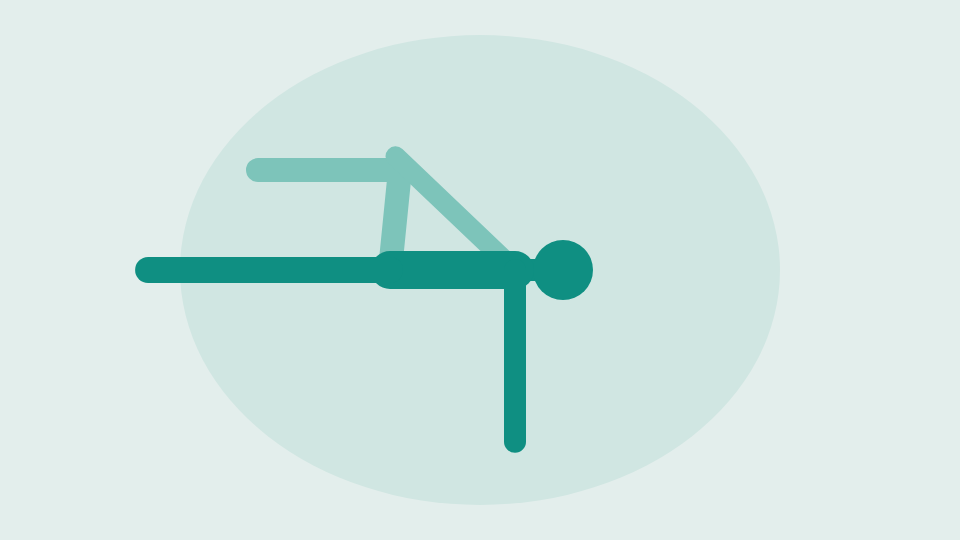
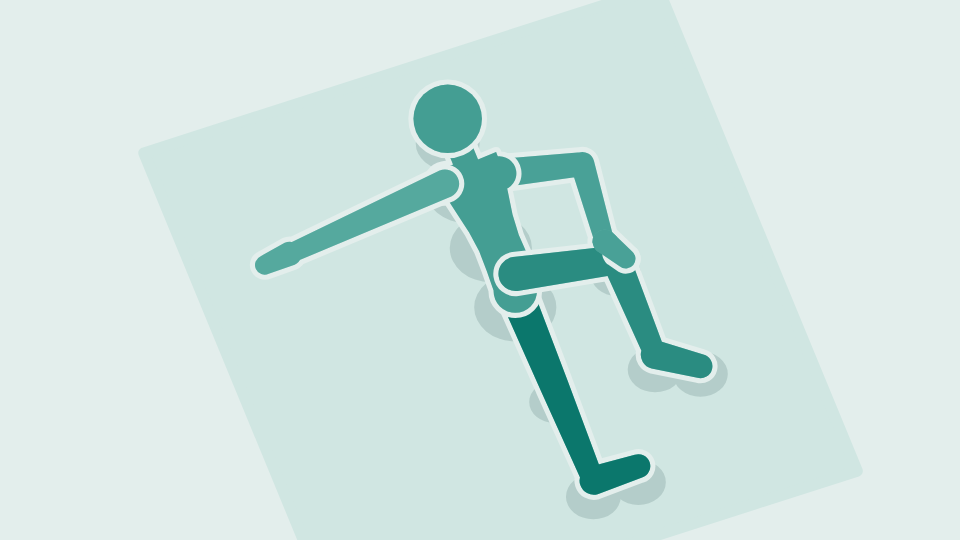
feat: add The Sagittarius exercise with 3D animation and update related components

Changed region(s): [[0.125, 0.1481, 0.7812, 0.9778]]

diff --git a/src/data/exercise-animations-3d.ts b/src/data/exercise-animations-3d.ts
@@ -6209,3 +6209,110 @@ export const SLEEPER_STRETCH_3D: Clip3D = {
     ...alongArc(1800, SLEEPER_STEPS, (t) => sleeperAt(1 - t)),
   ],
 };
+
+// --- The Sagittarius: lying on the left side with the top hip and knee at 90°, the bottom hand holding the knee down, the chest turns open and the top arm lies back on the floor behind ---
+
+/**
+ * The top hip and knee at 90°, the thigh turned in this far at the hip to bring the knee down
+ * toward the floor in front, and the toes pointed a little, as a relaxed foot lies. Further down,
+ * the foot, square to the shin, tipped its toes into the floor.
+ */
+const SAG_KNEE_DOWN = -20;
+const SAG_TOES = -25;
+/** How far the bottom hand's middle rests above the middle of the top knee: on top of it, holding it down. */
+const SAG_HAND_ON_KNEE = 17;
+/** How far from the wrist the middle of the hand is. */
+const SAG_HAND_MIDDLE = 13;
+/**
+ * How much the bottom hand tips down over the knee from the line of the arm: the palm over the top of
+ * the knee and the fingers curling down its far side.
+ */
+const SAG_HAND_TIP = 0.25;
+/** How high the fingertips of a hand lying on the floor are: half the fingers' thickness. */
+const SAG_FINGERTIPS_Y = 9;
+
+/**
+ * The chest this far turned open, the top arm swinging round with it from `closed`, resting on the
+ * floor in front of the chest, to `arm`, on the floor behind.
+ */
+const sagittariusBody = (open: number, arm = SAG_OPEN_ARM, closed = SAG_CLOSED_ARM): Pose3 => ({
+  pelvis: [0, BOOK_SPINE_Y, 0],
+  tilt: -90,
+  spine: { twist: BOOK_OPEN.twist * open },
+  neck: { twist: BOOK_OPEN.neck * open },
+  rightArm: { flex: 90, abduct: mix(closed, arm, open), shrug: BOOK_SHRUG },
+  leftArm: { shrug: BOOK_SHRUG },
+  rightLeg: { flex: 90, knee: 90, abduct: SAG_KNEE_DOWN, ankle: SAG_TOES },
+  leftLeg: {},
+});
+/** How far the top arm comes down across the chest, closed, for the fingertips to rest on the floor in front of it. */
+const SAG_CLOSED_ARM = (() => {
+  let [short, past] = [0, -90];
+  for (let i = 0; i < 40; i++) {
+    const arm = (short + past) / 2;
+    if (solvePose(sagittariusBody(0, BOOK_OPEN.arm, arm)).rightArm[3][1] > SAG_FINGERTIPS_Y) short = arm;
+    else past = arm;
+  }
+  return (short + past) / 2;
+})();
+/**
+ * How far out the top arm opens: as the chest turns open it swings round behind, and it goes as far
+ * as it takes for the hand to lie on the floor behind, relaxed, the back of it down, the fingertips touching.
+ */
+const SAG_OPEN_ARM = (() => {
+  let [short, past] = [BOOK_OPEN.arm, 180];
+  for (let i = 0; i < 40; i++) {
+    const arm = (short + past) / 2;
+    if (solvePose(sagittariusBody(1, arm, 0)).rightArm[3][1] > SAG_FINGERTIPS_Y) short = arm;
+    else past = arm;
+  }
+  return (short + past) / 2;
+})();
+/** The top knee, down on the floor in front, which stays there. */
+const SAG_KNEE = solvePose(sagittariusBody(0)).rightLeg[1];
+/** Where the middle of the bottom hand is, holding the knee: on top of it. */
+const SAG_ON_KNEE: Vec3 = [SAG_KNEE[0], SAG_KNEE[1] + SAG_HAND_ON_KNEE, SAG_KNEE[2]];
+
+/**
+ * The chest this far open, the bottom hand on top of the knee holding it down. The hand points on
+ * from the arm, from the bottom shoulder to the knee, tipped down over the knee, so the wrist stays
+ * near straight as the shoulder lifts with the chest turning.
+ */
+const sagittariusAt = (open: number): Pose3 => {
+  const body = sagittariusBody(open);
+  const along = unit3(sub3(SAG_ON_KNEE, solvePose(body).leftArm[0]));
+  const onKnee = unit3([along[0], along[1] - SAG_HAND_TIP, along[2]]);
+  return {
+    ...body,
+    pins: { leftHand: { at: along3(SAG_ON_KNEE, onKnee, -SAG_HAND_MIDDLE), toward: onKnee, pole: [1, 0.3, 0] } },
+  };
+};
+const SAG_CLOSED = sagittariusAt(0);
+const SAG_OPEN = sagittariusAt(1);
+const SAG_STEPS = 16;
+
+export const THE_SAGITTARIUS_3D: Clip3D = {
+  view: '3d',
+  // As in open book, from the feet end, a little behind the back and well above: the arm sweeps round
+  // over the body in a half circle across the screen as the chest turns up toward the camera, the top
+  // knee is in front, down on the floor, and the bottom leg reaches long down the screen.
+  camera: OPEN_BOOK_3D.camera,
+  highlight: ['torso', 'rightArm'],
+  // The bottom hand holds the top knee down, on top of it.
+  holds: [{ hand: 'leftHand', limb: 'rightLeg' }],
+  // As in open book: the top knee is nearer the camera than the top arm, well apart from it on
+  // screen, and by depth they swapped as the arm went overhead.
+  behind: [['rightArm', 'rightLeg']],
+  // The face turns up toward the camera as the chest opens, and a nose appearing partway through
+  // only distracts from the arm.
+  nose: false,
+  // Open.
+  stillFrame: 1 + SAG_STEPS,
+  keyframes: [
+    { ms: 0, pose: SAG_CLOSED },
+    { ms: 600, pose: SAG_CLOSED },
+    ...alongArc(2200, SAG_STEPS, sagittariusAt),
+    { ms: 3500, pose: SAG_OPEN },
+    ...alongArc(2200, SAG_STEPS, (t) => sagittariusAt(1 - t)),
+  ],
+};

diff --git a/src/lib/rig3d.test.ts b/src/lib/rig3d.test.ts
@@ -45,6 +45,7 @@ import {
   SHOULDER_PASS_THROUGHS_3D,
   SIDE_LYING_EXTERNAL_ROTATION_3D,
   SLEEPER_STRETCH_3D,
+  THE_SAGITTARIUS_3D,
   SIT_AND_REACH_3D,
   SQUAT_TO_STAND_3D,
   STRAIGHT_LEG_RAISE_3D,
@@ -1790,6 +1791,45 @@ describe('3D clips', () => {
       const nearest = Math.min(...[start.rightArm, start.leftArm].map((arm) => Math.hypot(x - hand(arm)[0], y - hand(arm)[1])));
       expect(nearest).toBeGreaterThan(10);
     }
+  });
+
+  it('holds the top knee down at 90° with the bottom hand while the chest turns open and the top arm lies back on the floor behind, and back, in the Sagittarius', () => {
+    const clip = THE_SAGITTARIUS_3D;
+    const skeletons = samples(clip).map(solvePose);
+    const start = skeletons[0];
+    for (const s of skeletons) {
+      // Lying on the side, the hips still and the bottom leg straight, in line with the torso.
+      expect(distance(s.spine[0], start.spine[0])).toBeCloseTo(0);
+      expect(distance(s.leftLeg[2], start.leftLeg[2])).toBeCloseTo(0);
+      expect(angleAt(s.leftLeg[0], s.leftLeg[1], s.leftLeg[2])).toBeGreaterThan(178);
+      expect(angleAt(s.spine[s.spine.length - 1], s.spine[0], s.leftLeg[2])).toBeGreaterThan(170);
+      // The top hip and knee at 90° the whole way, the knee down in front and staying put.
+      const [hip, knee, ankle] = s.rightLeg;
+      expect(distance(knee, start.rightLeg[1])).toBeCloseTo(0);
+      expect(angleAt(s.spine[s.spine.length - 1], s.spine[0], knee)).toBeCloseTo(90, -1);
+      expect(angleAt(hip, knee, ankle)).toBeCloseTo(90, 0);
+      expect(knee[1]).toBeLessThan(hip[1]);
+      // The bottom hand stays on top of the knee, holding it, never sinking into the leg, the wrist
+      // near straight, carrying on from the forearm.
+      const hand = s.leftArm;
+      const middle: Vec3 = [(hand[2][0] + hand[3][0]) / 2, (hand[2][1] + hand[3][1]) / 2, (hand[2][2] + hand[3][2]) / 2];
+      expect(distance(middle, knee)).toBeLessThan(20);
+      expect(middle[1]).toBeGreaterThan(knee[1]);
+      for (const point of [hand[2], hand[3], middle]) {
+        expect(Math.min(distanceToSegment(point, hip, knee), distanceToSegment(point, knee, ankle))).toBeGreaterThan(15);
+      }
+      expect(angleAt(hand[1], hand[2], hand[3])).toBeGreaterThan(140);
+    }
+    // Closed, the top hand rests on the floor in front of the chest.
+    expect(start.rightArm[2][0]).toBeGreaterThan(start.spine[0][0] + 120);
+    expect(start.rightArm[3][1]).toBeLessThan(12);
+    // Open, the chest has turned up toward the ceiling and the top arm lies back on the floor behind.
+    const open = solvePose(clip.keyframes[clip.stillFrame!].pose);
+    expect(open.rightArm[0][0]).toBeLessThan(start.rightArm[0][0] - 20);
+    expect(open.rightArm[2][0]).toBeLessThan(open.spine[0][0] - 120);
+    expect(open.rightArm[3][1]).toBeLessThan(12);
+    // Nothing changes places, and the bottom hand stays on top of the knee it holds.
+    expect(new Set(drawOrders(clip)).size).toBe(1);
   });
 
   it('presses the bottom forearm down from the ceiling toward the feet with the top hand, the arm out in front at shoulder height and the elbow at 90°, in the sleeper stretch', () => {

diff --git a/src/data/exercises.ts b/src/data/exercises.ts
@@ -69,6 +69,7 @@ import {
   SHOULDER_PASS_THROUGHS_3D,
   SIDE_LYING_EXTERNAL_ROTATION_3D,
   SLEEPER_STRETCH_3D,
+  THE_SAGITTARIUS_3D,
   SQUAT_TO_STAND_3D,
   STANDING_FORWARD_FOLD_3D,
   THREE_LEGGED_DOWNWARD_FACING_DOG_3D,
@@ -76,7 +77,6 @@ import {
 } from './exercise-animations-3d';
 
 import {
-  THE_SAGITTARIUS,
   THREAD_THE_NEEDLE,
   WINDSHIELD_WIPERS_WITH_KNEE_LIFT,
   WORLDS_GREATEST_STRETCH,
@@ -220,7 +220,7 @@ const ALL_EXERCISES: Exercise[] = [
       'Relax your opposite arm, and place the back of your hand on the ground',
     ],
     photo: require('@/assets/images/exercises/the-sagittarius.png'),
-    animation: THE_SAGITTARIUS,
+    animation: THE_SAGITTARIUS_3D,
     twoSided: true,
   },
   {

diff --git a/README.md b/README.md
@@ -210,16 +210,16 @@ Moved to the new engine:
 | Shoulder pass-throughs | Library | `SHOULDER_PASS_THROUGHS_3D` |
 | Side-lying external rotation | Library | `SIDE_LYING_EXTERNAL_ROTATION_3D` |
 | Sleeper stretch | Library | `SLEEPER_STRETCH_3D` |
+| The Sagittarius | Library | `THE_SAGITTARIUS_3D` |
 
 Still on the old engine (clip names in `exercise-animations.ts`). Where a clip needs something the new engine doesn't have yet, it's noted.
 
-All ten flexibility tests are on the new engine. The last six to move (knee to wall, the two seated hip rotations, sit and reach, knee to chest and straight leg raise) haven't been checked on a device yet, so their old clips are still in `exercise-animations.ts`; delete them once they have. The same goes for the three 90 to 90 clips in the library (`NINETY_TO_NINETY_ROTATIONS` has to stay either way: windshield wipers with knee lift is built on it), and for the two pancake clips (`PANCAKE_UP` has to stay either way: the seated straddle side bend is built on it), and for the active straight leg raise, ankle mobilization, the behind the back chest opener, back lying reverse pigeon, belly down foot splay, the five squats (bottom squat, bottom squat rotation, squat to stand, Cossack squat and resting Cossack squat), Blackburn, butterfly, cobra to prayer, downward facing dog, prayer pose, puppy pose, lying knee hug, lying hamstring stretch, seated pike stretch, three legged downward facing dog, standing forward fold, kneeling wrist stretch, floor angels, reverse tabletop, knight stretch, horse stance, the lying windshield wiper hold, frog stretch, frog rocks, knight to hamstring, couch stretch, pyramid stretch, wrist rocks, elephant walk, the seated straddle side bend, seated shoulder extension, the half kneeling frog stretch, the neck side stretch, the cross-body shoulder stretch, the overhead triceps stretch, cow face arms, the pigeon stretch, hip circles, the Breakdancer, scap mobilization, the lizard pose, the figure four stretch, the two manual forearm stretches, downward facing dog to cobra, Cuban rotation, the half spinal twist, the half-twisted lizard, open book, inchworm, the pec stretch on the ground, reverse clamshells, reverse scorpion, seated hip internal rotation, shoulder pass-throughs, side-lying external rotation, the sleeper stretch and finger tendon glides (`FINGER_TENDON_GLIDES` is still checked by `figure-rig.test.ts` and `exercise-video.test.tsx` until then).
+All ten flexibility tests are on the new engine. The last six to move (knee to wall, the two seated hip rotations, sit and reach, knee to chest and straight leg raise) haven't been checked on a device yet, so their old clips are still in `exercise-animations.ts`; delete them once they have. The same goes for the three 90 to 90 clips in the library (`NINETY_TO_NINETY_ROTATIONS` has to stay either way: windshield wipers with knee lift is built on it), and for the two pancake clips (`PANCAKE_UP` has to stay either way: the seated straddle side bend is built on it), and for the active straight leg raise, ankle mobilization, the behind the back chest opener, back lying reverse pigeon, belly down foot splay, the five squats (bottom squat, bottom squat rotation, squat to stand, Cossack squat and resting Cossack squat), Blackburn, butterfly, cobra to prayer, downward facing dog, prayer pose, puppy pose, lying knee hug, lying hamstring stretch, seated pike stretch, three legged downward facing dog, standing forward fold, kneeling wrist stretch, floor angels, reverse tabletop, knight stretch, horse stance, the lying windshield wiper hold, frog stretch, frog rocks, knight to hamstring, couch stretch, pyramid stretch, wrist rocks, elephant walk, the seated straddle side bend, seated shoulder extension, the half kneeling frog stretch, the neck side stretch, the cross-body shoulder stretch, the overhead triceps stretch, cow face arms, the pigeon stretch, hip circles, the Breakdancer, scap mobilization, the lizard pose, the figure four stretch, the two manual forearm stretches, downward facing dog to cobra, Cuban rotation, the half spinal twist, the half-twisted lizard, open book, inchworm, the pec stretch on the ground, reverse clamshells, reverse scorpion, seated hip internal rotation, shoulder pass-throughs, side-lying external rotation, the sleeper stretch, the Sagittarius and finger tendon glides (`FINGER_TENDON_GLIDES` is still checked by `figure-rig.test.ts` and `exercise-video.test.tsx` until then).
 
 Library (`src/data/exercises.ts`):
 
 | Exercise | Clip | Needs |
 |---|---|---|
-| The Sagittarius | `THE_SAGITTARIUS` | |
 | Thread the needle | `THREAD_THE_NEEDLE` | limbs split in front of and behind the torso |
 | Windshield wipers with knee lift | `WINDSHIELD_WIPERS_WITH_KNEE_LIFT` | |
 | World's greatest stretch | `WORLDS_GREATEST_STRETCH` | |
